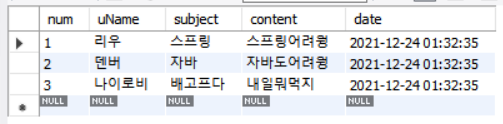
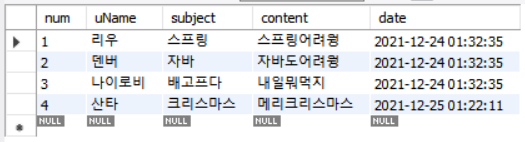
Spring11 수정

diff --git a/_posts/Spring/2021-12-24-Spring11.md b/_posts/Spring/2021-12-24-Spring11.md
@@ -40,7 +40,8 @@ insert into springtest
 values
 ('리우', '스프링', '스프링어려웡', now()),
 ('덴버', '자바', '자바도어려웡', now()),
-('나이로비', '배고프다', '내일뭐먹지', now());
+('나이로비', '배고프다', '내일뭐먹지', now()),
+('산타', '크리스마스', '메리크리스마스', now());
 
 select * from springtest;
 ```
@@ -328,7 +329,7 @@ url 매핑을 해 준 대로 `http://localhost/board/list`에 들어가보면
 <!DOCTYPE mapper
   PUBLIC "-//mybatis.org//DTD Mapper 3.0//EN"
   "http://mybatis.org/dtd/mybatis-3-mapper.dtd">
-<mapper namespace="springTestMapper">
+<mapper namespace="com.springtest.mappers.board">
 	<!-- 리스트 출력 -->
 	<select id="list" resultType="com.springtest.domain.TestVO">
 		select
@@ -381,7 +382,7 @@ public class testDAOImpl implements testDAO {
 	@Inject
 	private SqlSession sqlSession;
 	
-	private static String namespace = "com.springTest.mappers.board";
+	private static String namespace = "com.springtest.mappers.board";
 	
 	@Override
 	public List<TestVO> list() {
@@ -492,4 +493,11 @@ public class TestController {
 <context:component-scan base-package="com.springtest.service" />
 ```
 
-...작성중
+<br>
+<br>
+<br>
+<br>
+
+실행 해 보면 DB에 입력한 값들을 잘 읽어오는 걸 볼 수 있다 ㅎㅎ
+
+![](/assets/img/springdb09.png)
